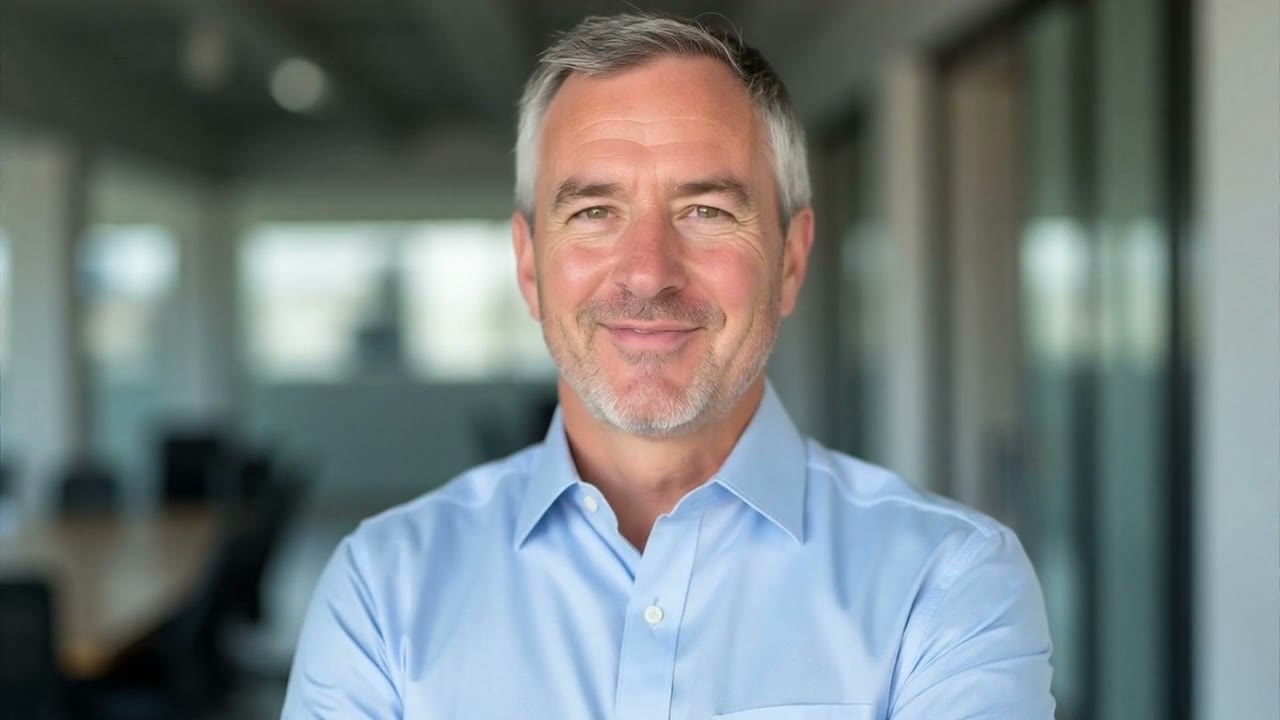
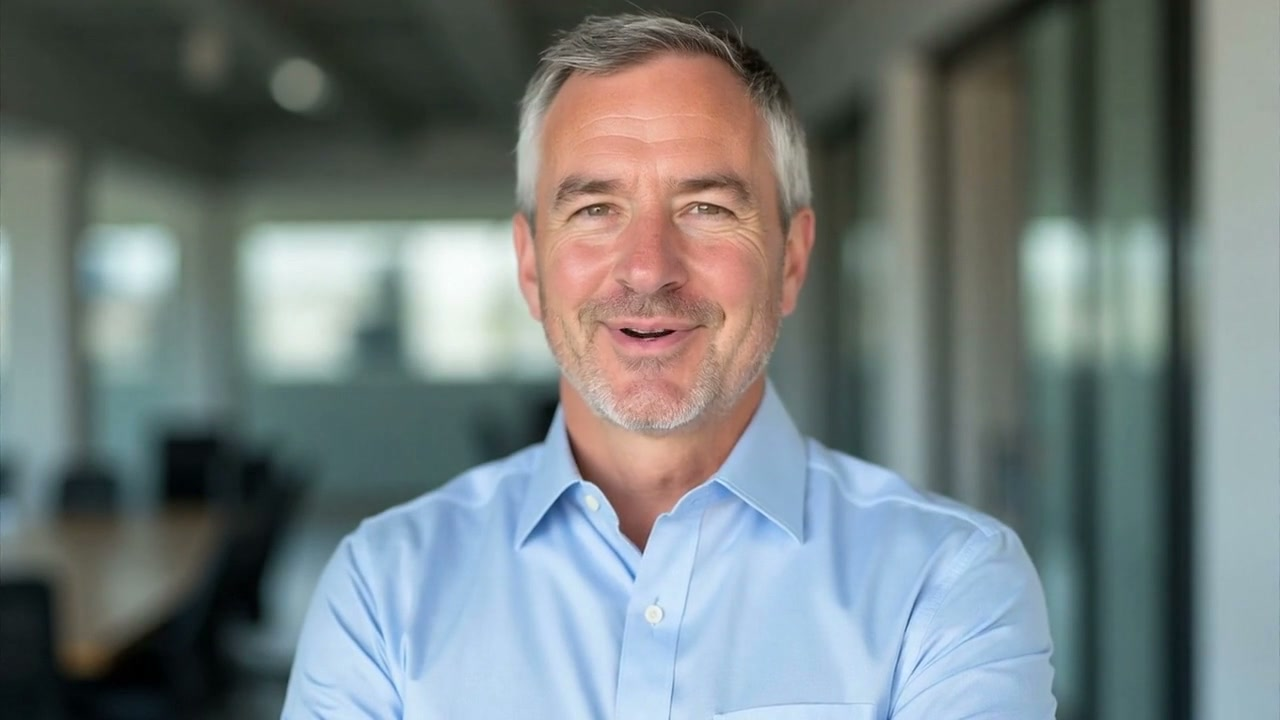
NVP53: rerender Harrisburg with David Voice One

diff --git a/app/markets/harrisburg-pa/page.tsx b/app/markets/harrisburg-pa/page.tsx
@@ -312,8 +312,6 @@ export default function HarrisburgMarketPage() {
           src="/videos/harrisburg-pa/landing.mp4"
           title="Sell Your House Fast in Harrisburg, PA"
           poster="/videos/harrisburg-pa/landing-poster.jpg"
-          captionsSrc="/videos/harrisburg-pa/landing-captions.vtt"
-          captionsLabel="English captions"
           subtitle="A short overview for Harrisburg, PA homeowners considering a direct as-is cash sale."
         />
         <details className="mt-4 mb-8 border border-gray-200 rounded-lg max-w-4xl mx-auto">